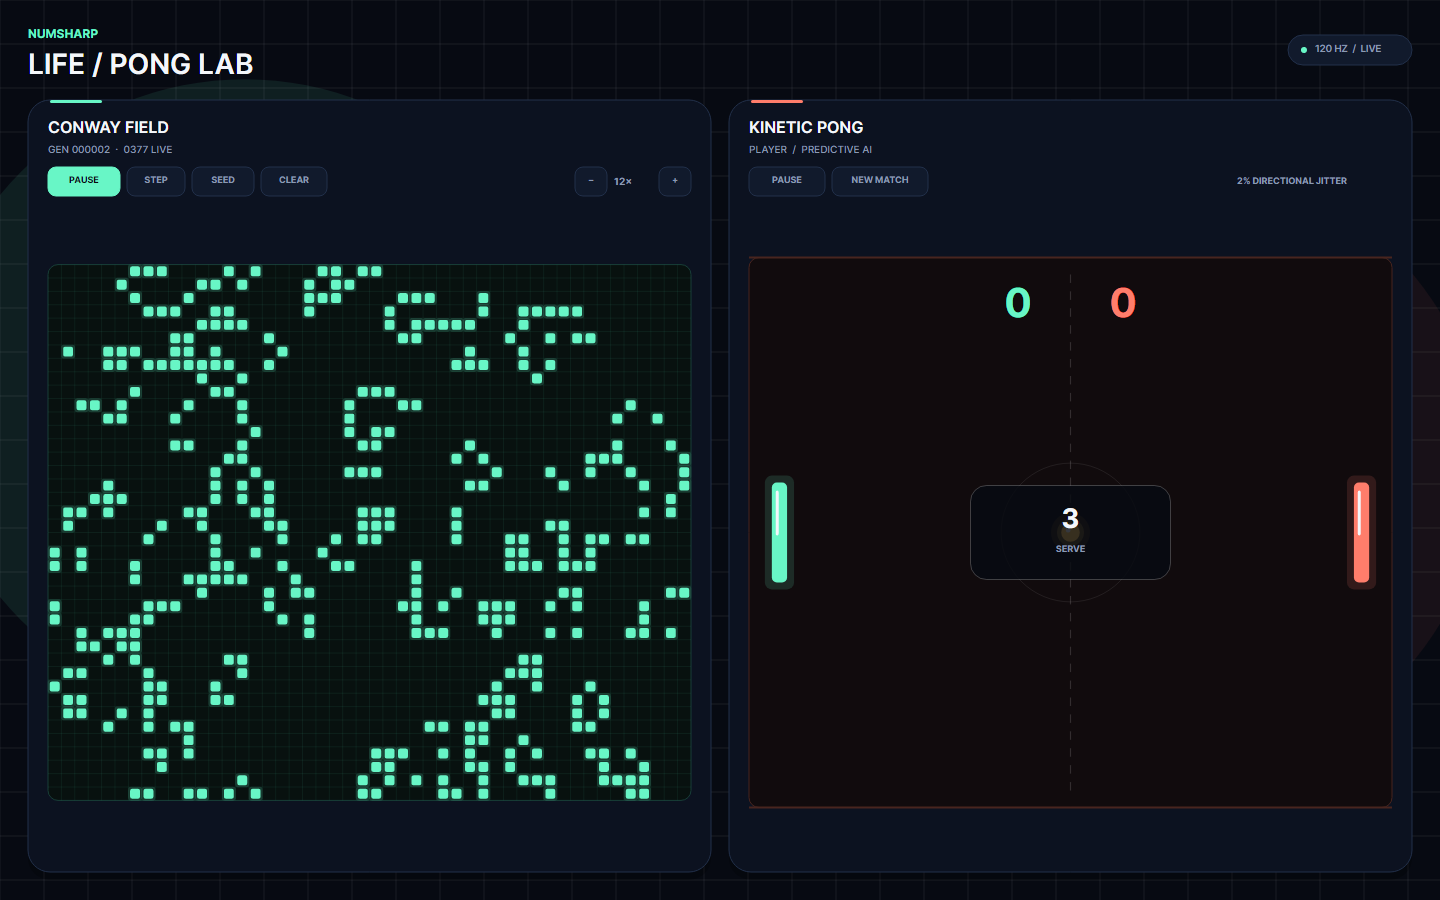
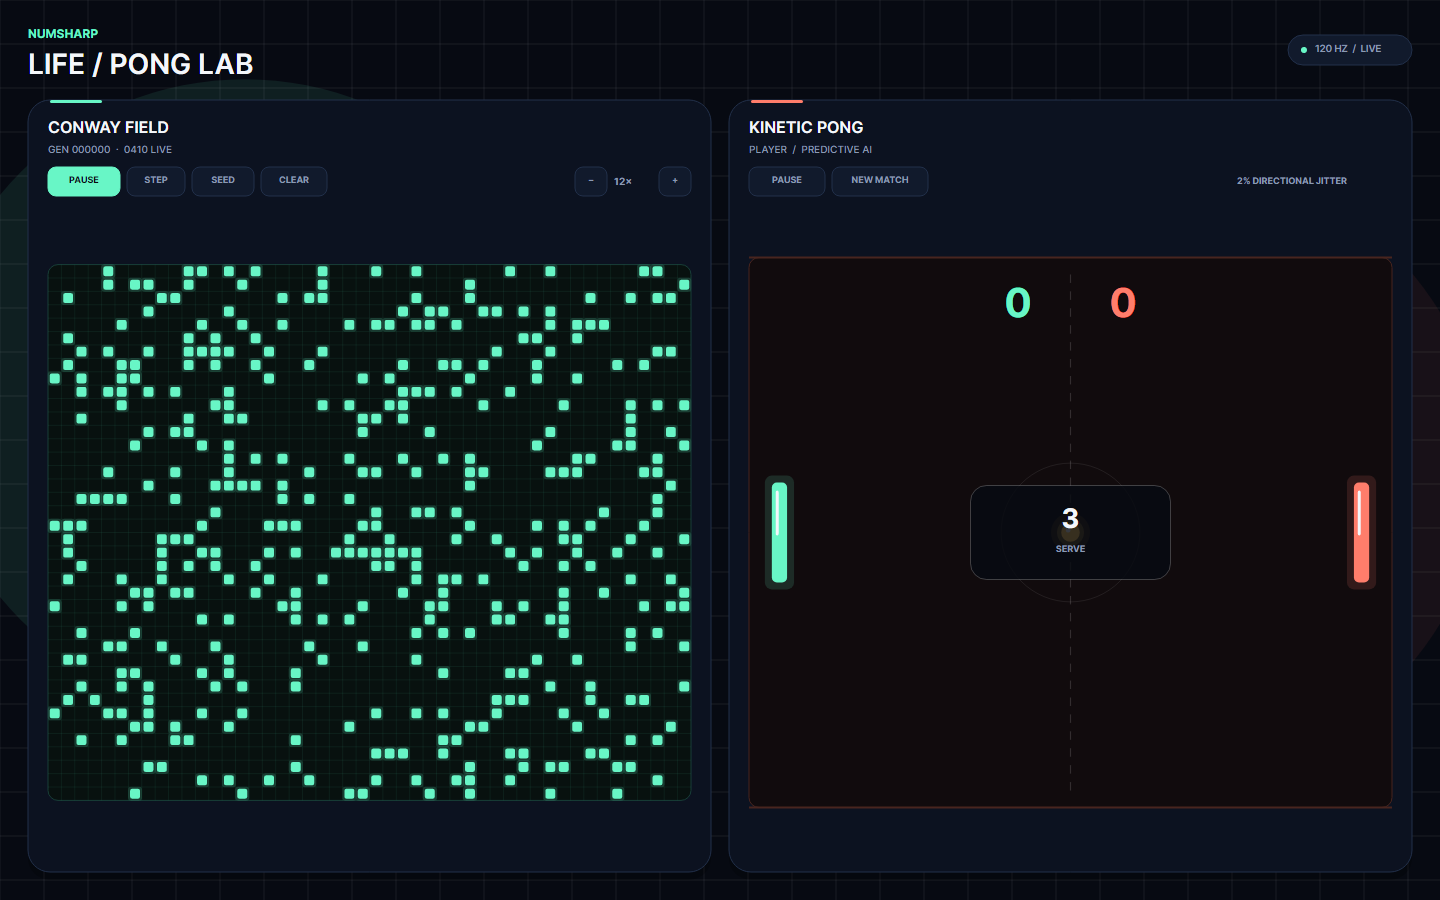
fix(examples): clear game input on deactivation
Clear held keyboard direction, active Life painting, and pointer capture whenever the game surface loses focus or the desktop window deactivates. This prevents a paddle from continuing to move after the player releases a key while another window has focus.

Extend the headless UI test to press W, begin a captured paint gesture, transfer focus, and assert all transient input is released. Use Avalonia's current PNG encoder API to eliminate the obsolete Bitmap.Save warning.

Refs: E-01a070b4-f9c3-7672-8e00-2e14f72ffaf0; DU-numsharp-life-pong-001

Changed region(s): [[0.0312, 0.28, 0.5, 0.9022], [0.3438, 0.28, 0.4062, 0.3111], [0.0938, 0.1556, 0.125, 0.1867]]

diff --git a/examples/LifeAndPong/NumSharp.LifeAndPong/Views/GameSurface.cs b/examples/LifeAndPong/NumSharp.LifeAndPong/Views/GameSurface.cs
@@ -47,17 +47,24 @@ public sealed class GameSurface : Control, IDisposable
     private bool _paintingLife;
     private bool _paintAlive;
     private bool _disposed;
+    private IPointer? _capturedPointer;
     private Rect _lifeGridRect;
     private Rect _pongWorldRect;
 
     public GameSurface()
+        : this(startAnimation: true)
+    {
+    }
+
+    internal GameSurface(bool startAnimation)
     {
         Focusable = true;
         ClipToBounds = true;
         _timer = new DispatcherTimer { Interval = TimeSpan.FromMilliseconds(8) };
         _timer.Tick += OnFrame;
         _lastTimestamp = Stopwatch.GetTimestamp();
-        _timer.Start();
+        if (startAnimation)
+            _timer.Start();
     }
 
     public override void Render(DrawingContext context)
@@ -93,6 +100,7 @@ public sealed class GameSurface : Control, IDisposable
         if (_disposed)
             return;
 
+        ReleaseTransientInput();
         _timer.Stop();
         _timer.Tick -= OnFrame;
         _life.Dispose();
@@ -119,6 +127,7 @@ public sealed class GameSurface : Control, IDisposable
         {
             _paintAlive = _life.ToggleCell(row, column);
             _paintingLife = true;
+            _capturedPointer = e.Pointer;
             e.Pointer.Capture(this);
             InvalidateVisual();
             e.Handled = true;
@@ -145,7 +154,21 @@ public sealed class GameSurface : Control, IDisposable
     {
         base.OnPointerReleased(e);
         _paintingLife = false;
+        _capturedPointer = null;
         e.Pointer.Capture(null);
+    }
+
+    protected override void OnPointerCaptureLost(PointerCaptureLostEventArgs e)
+    {
+        base.OnPointerCaptureLost(e);
+        _paintingLife = false;
+        _capturedPointer = null;
+    }
+
+    protected override void OnLostFocus(FocusChangedEventArgs e)
+    {
+        base.OnLostFocus(e);
+        ReleaseTransientInput();
     }
 
     protected override void OnKeyDown(KeyEventArgs e)
@@ -194,6 +217,20 @@ public sealed class GameSurface : Control, IDisposable
                 e.Handled = true;
                 break;
         }
+    }
+
+    internal bool HasTransientInputForTesting => _upHeld || _downHeld || _paintingLife || _capturedPointer is not null;
+
+    internal void ReleaseTransientInput()
+    {
+        _upHeld = false;
+        _downHeld = false;
+        _paintingLife = false;
+        _pong.SetKeyboardIntent(0);
+
+        var pointer = _capturedPointer;
+        _capturedPointer = null;
+        pointer?.Capture(null);
     }
 
     private void OnFrame(object? sender, EventArgs e)

diff --git a/examples/LifeAndPong/NumSharp.LifeAndPong.Tests/VisualSmokeTests.cs b/examples/LifeAndPong/NumSharp.LifeAndPong.Tests/VisualSmokeTests.cs
@@ -1,6 +1,9 @@
 using Avalonia;
 using Avalonia.Controls;
 using Avalonia.Headless;
+using Avalonia.Input;
+using Avalonia.Layout;
+using Avalonia.Media.Imaging;
 using NumSharp.LifeAndPong.Views;
 
 namespace NumSharp.LifeAndPong.Tests;
@@ -11,7 +14,7 @@ public sealed class VisualSmokeTests
     public TestContext TestContext { get; set; } = null!;
 
     [TestMethod]
-    public async Task Complete_Surface_Renders_At_Desktop_Size()
+    public async Task Surface_Renders_And_Clears_Transient_Input_On_Focus_Loss()
     {
         await using var session = HeadlessUnitTestSession.StartNew(typeof(HeadlessAppBuilder));
         var output = Environment.GetEnvironmentVariable("LIFE_PONG_PREVIEW_PATH")
@@ -19,18 +22,37 @@ public sealed class VisualSmokeTests
 
         await session.Dispatch(() =>
         {
-            using var surface = new GameSurface();
+            using var surface = new GameSurface(startAnimation: false);
+            var focusTarget = new Button
+            {
+                Width = 1,
+                Height = 1,
+                Opacity = 0.01,
+                HorizontalAlignment = HorizontalAlignment.Right,
+                VerticalAlignment = VerticalAlignment.Bottom
+            };
+            var root = new Grid();
+            root.Children.Add(surface);
+            root.Children.Add(focusTarget);
             var window = new Window
             {
                 Width = 1440,
                 Height = 900,
-                Content = surface
+                Content = root
             };
 
             window.Show();
+            surface.Focus();
             using var frame = window.CaptureRenderedFrame();
             Assert.IsNotNull(frame);
-            frame.Save(output);
+            frame.Save(output, PngBitmapEncoderOptions.Default);
+
+            window.KeyPress(Key.W, RawInputModifiers.None, PhysicalKey.None, "w");
+            window.MouseDown(new Point(100, 300), MouseButton.Left, RawInputModifiers.None);
+            Assert.IsTrue(surface.HasTransientInputForTesting);
+
+            focusTarget.Focus();
+            Assert.IsFalse(surface.HasTransientInputForTesting);
             window.Close();
         }, CancellationToken.None);
 

diff --git a/examples/LifeAndPong/NumSharp.LifeAndPong/Views/MainWindow.cs b/examples/LifeAndPong/NumSharp.LifeAndPong/Views/MainWindow.cs
@@ -18,6 +18,7 @@ public sealed class MainWindow : Window
         Background = new SolidColorBrush(Color.Parse("#070A12"));
         Content = _surface;
         WindowStartupLocation = WindowStartupLocation.CenterScreen;
+        Deactivated += (_, _) => _surface.ReleaseTransientInput();
         Closed += (_, _) => _surface.Dispose();
     }
 }
